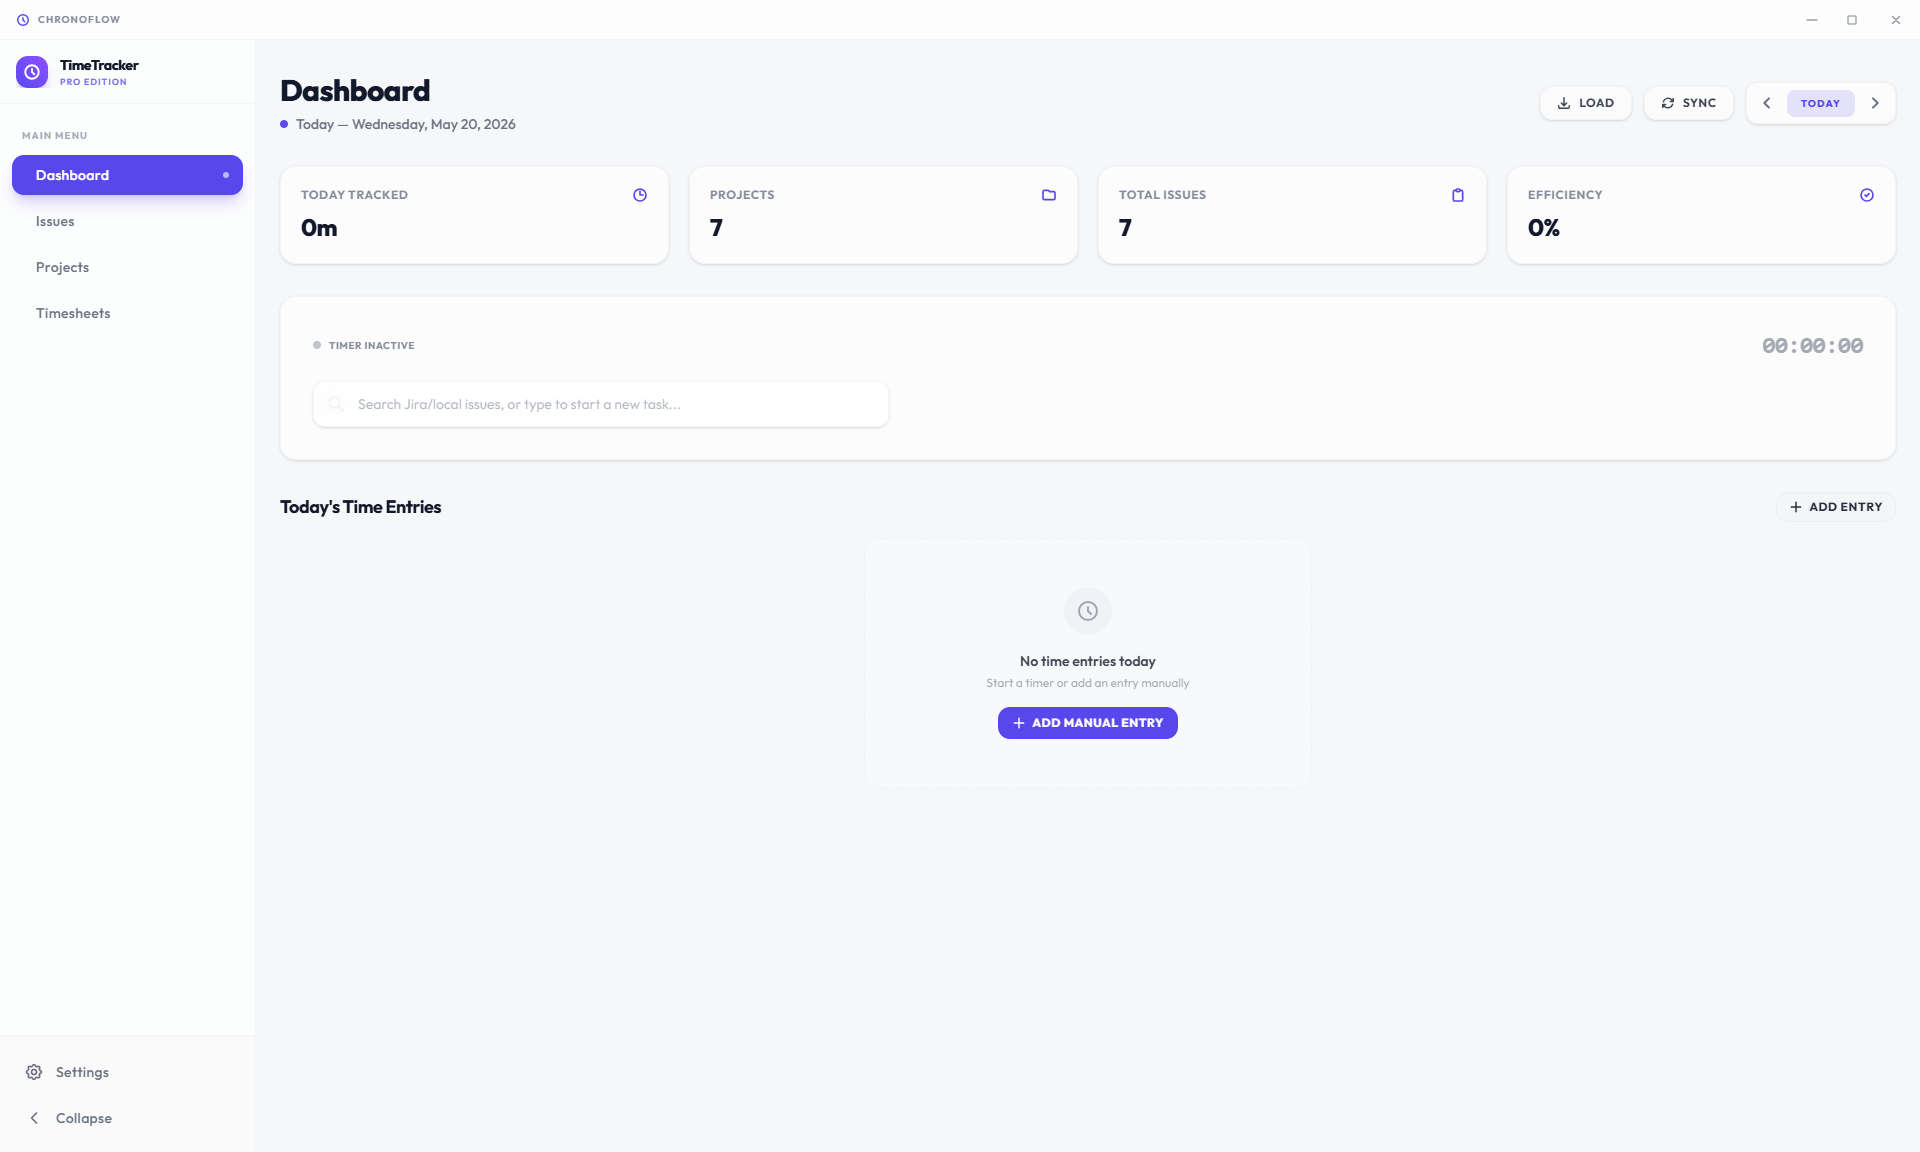
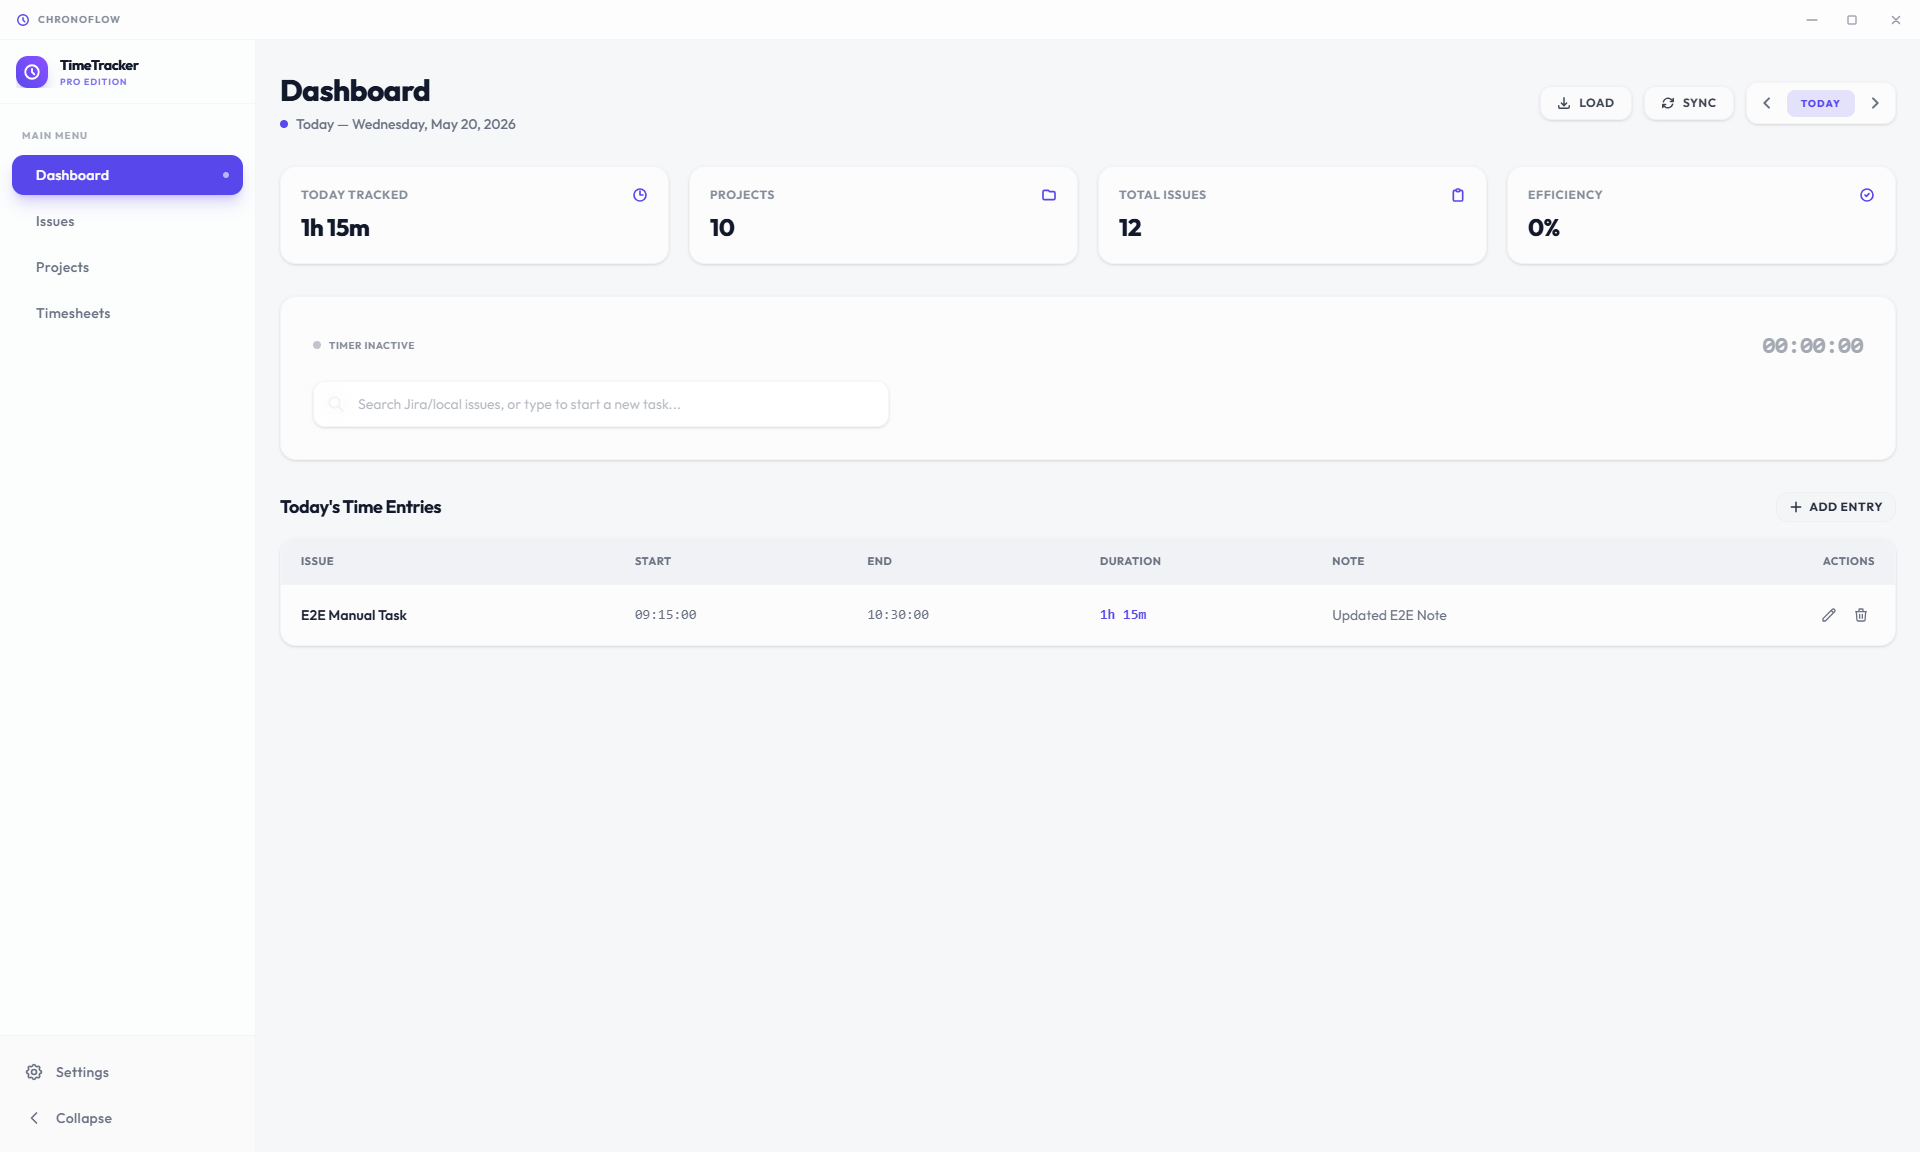
ChronoFlow: Fix worklog edit time formatting and comment updates

diff --git a/e2e/app.spec.ts b/e2e/app.spec.ts
@@ -275,3 +275,71 @@ test("auto-update notification displays when update IPC event fires", async () =
   });
   expect(hasTimerAPI).toBeTruthy();
 });
+
+// ─── Test 9: Create, Edit, and Save a manual time entry ─────────────────────
+
+test("create, edit, and save a time entry", async () => {
+  // Navigate to Dashboard
+  await window.locator("app-side-nav").locator("text=Dashboard").click();
+  await window.waitForTimeout(500);
+
+  // Click "Add Entry" button (either Add Entry or Add Manual Entry)
+  const addEntryBtn = window.locator("button:has-text('Add Entry'), button:has-text('Add Manual Entry')").first();
+  await expect(addEntryBtn).toBeVisible();
+  await addEntryBtn.click();
+  await window.waitForTimeout(300);
+
+  // Focus and type search issue to create a new task
+  const searchInput = window.locator("app-time-entry-edit-dialog app-search-bar input");
+  await expect(searchInput).toBeVisible();
+  await searchInput.fill("E2E Manual Task");
+  await window.waitForTimeout(500);
+
+  // Click the "Create & start local task" dropdown button
+  const createBtn = window.locator("app-search-bar button", { hasText: /create & start local task/i }).first();
+  await expect(createBtn).toBeVisible();
+  await createBtn.click();
+  await window.waitForTimeout(300);
+
+  // Fill in description/note
+  const noteInput = window.locator("textarea#edit-entry-note");
+  await noteInput.fill("Initial E2E Note");
+
+  // Save the new entry
+  const confirmBtn = window.locator("app-dialog button:has-text('Create Entry')").first();
+  await expect(confirmBtn).toBeVisible();
+  await confirmBtn.click();
+  await window.waitForTimeout(1000);
+
+  // Verify the row appears in the table
+  const tableRow = window.locator("app-time-entry-list table tbody tr", { hasText: "E2E Manual Task" }).first();
+  await expect(tableRow).toBeVisible();
+  await expect(tableRow.locator("td", { hasText: "Initial E2E Note" })).toBeVisible();
+
+  // Click "Edit entry" button
+  const editBtn = tableRow.locator("button[aria-label='Edit entry']").first();
+  await expect(editBtn).toBeVisible();
+  await editBtn.click();
+  await window.waitForTimeout(300);
+
+  // Change the note
+  const noteInputUpdate = window.locator("textarea#edit-entry-note");
+  await expect(noteInputUpdate).toBeVisible();
+  await noteInputUpdate.fill("Updated E2E Note");
+
+  // Modify start and end times
+  const startTimeInput = window.locator("input#edit-start-time");
+  await startTimeInput.fill("09:15");
+  const endTimeInput = window.locator("input#edit-end-time");
+  await endTimeInput.fill("10:30");
+
+  // Save Changes
+  const saveBtn = window.locator("app-dialog button:has-text('Save Changes')").first();
+  await expect(saveBtn).toBeVisible();
+  await saveBtn.click();
+  await window.waitForTimeout(1000);
+
+  // Verify that the table updates with the new note and correct duration (09:15 to 10:30 is 1h 15m)
+  await expect(tableRow.locator("td", { hasText: "Updated E2E Note" })).toBeVisible();
+  await expect(tableRow.locator("td", { hasText: "1h 15m" })).toBeVisible();
+});

diff --git a/electron/db-service.ts b/electron/db-service.ts
@@ -2,6 +2,21 @@ import { getDatabase } from "./database";
 import type { Project, Issue, TimeEntry, JiraConnection } from "../src/types";
 import { randomUUID } from "crypto";
 
+function normalizeTime(time: string | null | undefined): string | null {
+  if (!time) return null;
+  const trimmed = time.trim();
+  if (!trimmed) return null;
+
+  const parts = trimmed.split(":");
+  if (parts.length === 2) {
+    return `${trimmed}:00`;
+  }
+  if (parts.length === 1) {
+    return `${trimmed}:00:00`;
+  }
+  return trimmed;
+}
+
 // ---- Projects ----
 
 export async function getAllProjects(): Promise<Project[]> {
@@ -306,8 +321,8 @@ export async function createTimeEntry(entry: TimeEntry): Promise<void> {
      VALUES (?, ?, ?, ?, ?, ?, ?, ?)`,
     entry.id,
     entry.issueId,
-    entry.startTime,
-    entry.endTime || null,
+    normalizeTime(entry.startTime) || "00:00:00",
+    normalizeTime(entry.endTime),
     entry.date,
     entry.note || null,
     entry.jiraWorklogId || null,
@@ -326,12 +341,12 @@ export async function updateTimeEntry(
 
   if (updates.startTime !== undefined) {
     fields.push("start_time = ?");
-    values.push(updates.startTime);
+    values.push(normalizeTime(updates.startTime) || "00:00:00");
     shouldSetDirty = true;
   }
   if (updates.endTime !== undefined) {
     fields.push("end_time = ?");
-    values.push(updates.endTime);
+    values.push(normalizeTime(updates.endTime));
     shouldSetDirty = true;
   }
   if (updates.date !== undefined) {
@@ -402,9 +417,11 @@ export async function splitTimeEntry(
   )) as any;
   if (!original) throw new Error("Time entry not found");
 
+  const normalizedSplit = normalizeTime(splitTime) || splitTime;
+
   if (
-    splitTime <= original.start_time ||
-    (original.end_time && splitTime >= original.end_time)
+    normalizedSplit <= original.start_time ||
+    (original.end_time && normalizedSplit >= original.end_time)
   ) {
     throw new Error("Invalid split time");
   }
@@ -413,7 +430,7 @@ export async function splitTimeEntry(
 
   await db.run(
     "UPDATE time_entries SET end_time = ? WHERE id = ?",
-    splitTime,
+    normalizedSplit,
     originalEntryId,
   );
 
@@ -422,7 +439,7 @@ export async function splitTimeEntry(
      VALUES (?, ?, ?, ?, ?, ?, ?)`,
     newEntryId,
     newIssueId || original.issue_id,
-    splitTime,
+    normalizedSplit,
     original.end_time,
     original.date,
     original.note,

diff --git a/electron/handlers/jira-handlers.ts b/electron/handlers/jira-handlers.ts
@@ -579,7 +579,7 @@ export function registerJiraHandlers() {
       const { baseUrl, headers } = getJiraRequestConfig(params);
       const { issueKey, worklogId, timeSpentSeconds, comment, started } = params;
 
-      const adfComment = comment ? {
+      const adfComment = {
         type: "doc",
         version: 1,
         content: [
@@ -588,18 +588,18 @@ export function registerJiraHandlers() {
             content: [
               {
                 type: "text",
-                text: comment,
+                text: comment || "",
               },
             ],
           },
         ],
-      } : undefined;
+      };
 
       const response = await axios.put(
         `${baseUrl}/rest/api/3/issue/${issueKey}/worklog/${worklogId}`,
         {
           timeSpentSeconds,
-          ...(adfComment ? { comment: adfComment } : {}),
+          comment: adfComment,
           started,
         },
         { headers },

diff --git a/playwright-report/index.html b/playwright-report/index.html
@@ -87,4 +87,4 @@ Error generating stack: `+l.message+`
     <div id='root'></div>
   </body>
 </html>
[2 lines of base64/hex data omitted]